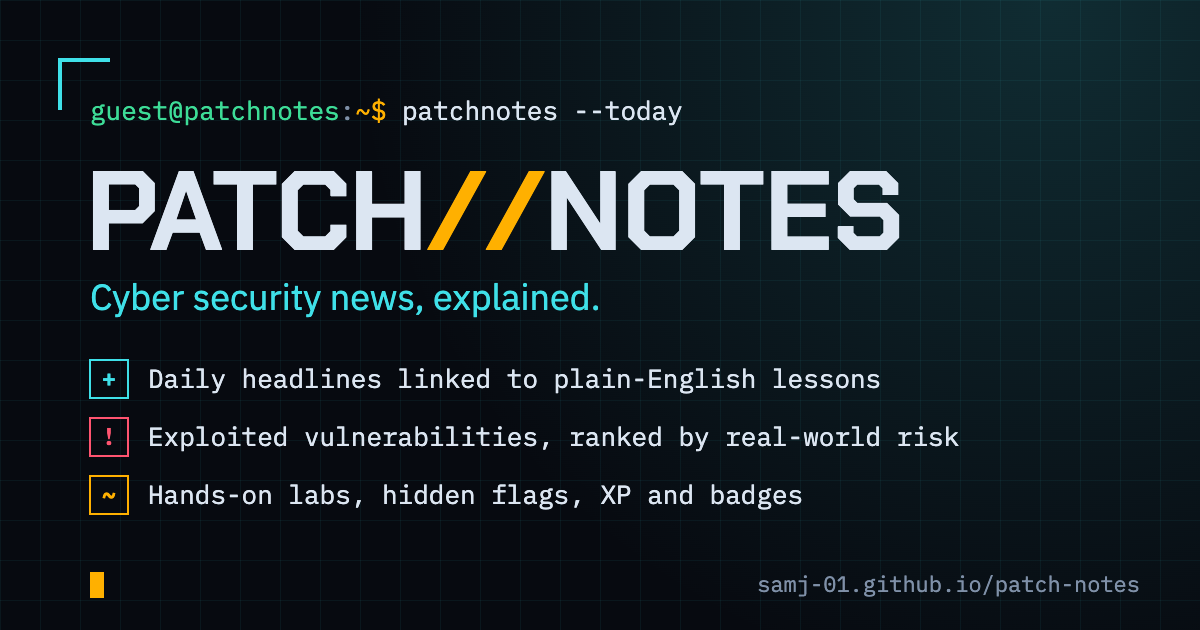
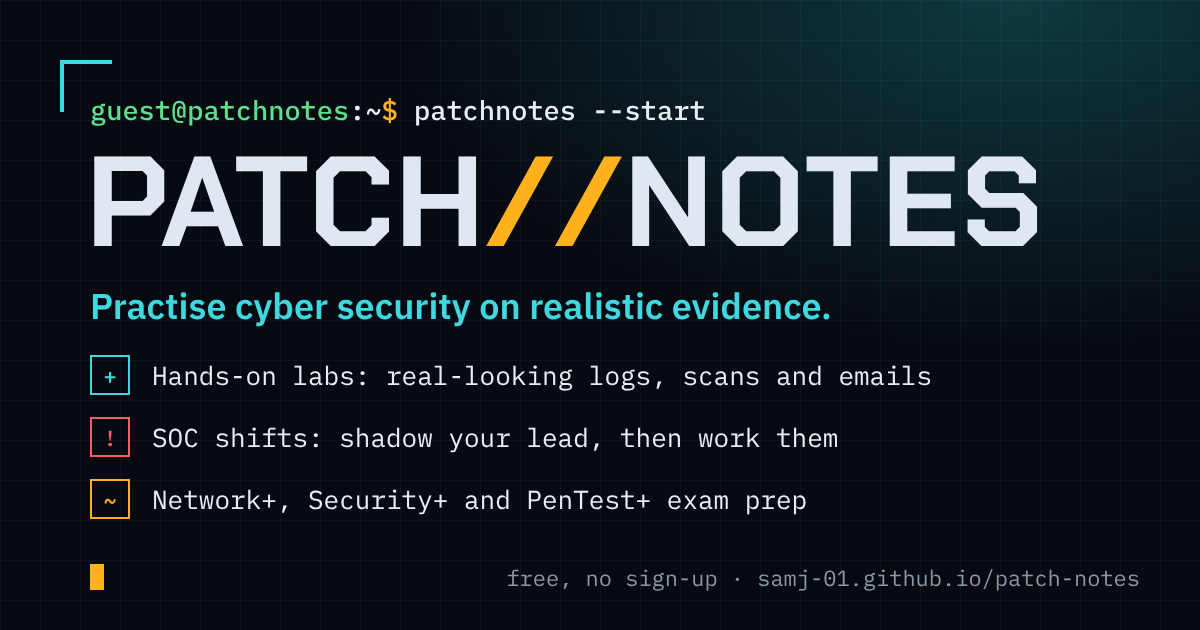
V1 polish: share preview, exam start card, README and feedback links
Getting ready to share the site with the owner's iMeta class, who are
studying Network+, Security+ and PenTest+.
- Link preview: a new og.png and share title and description. The old
  card sold the site as a news feed; it now says what it's for
  (practise on realistic evidence: labs, SOC shifts you can shadow,
  exam prep), and says it's free with no sign-up. The card's source
  is kept in docs/og.html.
- Home: a fourth way in for newcomers, "Studying for an exam" (four
  across on wide screens, two on tablets, one on phones), and the
  Agency card now says you can watch your shift lead first.
- Command palette: the Agency is a section, and exam prep names all
  three certs.
- Feedback links: only a GitHub issue form gets a title appended, and
  only it says it needs an account, so a Google or Microsoft Forms
  link can replace it in content/site.json alone (tested).
- README: what's on the site now (26 labs, 4 missions, the Agency, 3
  tools, 29 lessons, three exam maps with 148 questions) and the
  current site sections; the Node test command uses the glob.

Verified: Python OK, Node 217/217 (new feedback-link test). browser_
check with axe on all 80 routes at desktop and phone in dark and
light: 320 of 320 clean. Home, Agency and a lab rechecked after the
last changes, and the guided shift replay (including Watch from the
report) passes.

Claude-Session: https://claude.ai/code/session_01SEoh2DnpqGooNxPu4SiA34

diff --git a/docs/og.html b/docs/og.html
@@ -1,0 +1,25 @@
+<!-- Source of static/og.png (the link-preview card). Render at 1200 x 630 in Chromium and save as PNG. -->
+<!doctype html><html><head><meta charset="utf-8">
+<link rel="stylesheet" href="https://fonts.googleapis.com/css2?family=Chakra+Petch:wght@600;700&family=IBM+Plex+Mono:wght@400;500&family=IBM+Plex+Sans:wght@400;600&display=block">
+<style>
+html,body{margin:0;width:1200px;height:630px;overflow:hidden}
+body{background:radial-gradient(900px 500px at 85% 0%,#0f3a40 0%,rgba(15,58,64,0) 70%),#070a10;color:#e6edf5;font-family:"IBM Plex Sans",sans-serif;position:relative}
+body:before{content:"";position:absolute;inset:0;background-image:linear-gradient(rgba(64,224,232,.05) 1px,transparent 1px),linear-gradient(90deg,rgba(64,224,232,.05) 1px,transparent 1px);background-size:40px 40px}
+.c{position:absolute;left:60px;top:60px;width:48px;height:48px;border-left:4px solid #40d8e0;border-top:4px solid #40d8e0}
+.p{position:absolute;left:90px;top:92px;font:500 27px "IBM Plex Mono",monospace;color:#e6edf5}.p b{color:#5ee08a;font-weight:500}.p i{color:#ffb21e;font-style:normal}
+h1{position:absolute;left:86px;top:138px;margin:0;font:700 128px/1 "Chakra Petch",sans-serif;letter-spacing:2px;color:#dfe7f2}h1 span{color:#ffb21e}
+.s{position:absolute;left:90px;top:282px;font:600 36px "IBM Plex Sans",sans-serif;color:#40d8e0}
+ul{position:absolute;left:90px;top:355px;margin:0;padding:0;list-style:none}
+li{display:flex;align-items:center;gap:22px;margin-bottom:22px;font:400 26px "IBM Plex Mono",monospace;color:#e6edf5}
+li em{display:inline-grid;place-items:center;width:36px;height:36px;border:2px solid;font:500 22px "IBM Plex Mono",monospace;font-style:normal}
+.a{color:#40d8e0}.b{color:#ff5a6a}.d{color:#ffb21e}
+.k{position:absolute;left:90px;bottom:40px;width:14px;height:26px;background:#ffb21e}
+.u{position:absolute;right:60px;bottom:38px;font:400 22px "IBM Plex Mono",monospace;color:#8b97a8}
+</style></head><body><div class="c"></div>
+<div class="p"><b>guest@patchnotes</b>:~<i>$</i> patchnotes --start</div>
+<h1>PATCH<span>//</span>NOTES</h1>
+<div class="s">Practise cyber security on realistic evidence.</div>
+<ul><li><em class="a">+</em>Hands-on labs: real-looking logs, scans and emails</li>
+<li><em class="b">!</em>SOC shifts: shadow your lead, then work them</li>
+<li><em class="d">~</em>Network+, Security+ and PenTest+ exam prep</li></ul>
+<div class="k"></div><div class="u">free, no sign-up · samj-01.github.io/patch-notes</div></body></html>

diff --git a/src/app/04-home.js b/src/app/04-home.js
@@ -87,7 +87,7 @@ let routeWidth = 0, routeTimer = null;
 addEventListener("resize", () => { clearTimeout(routeTimer); routeTimer = setTimeout(() => { const b = $("route"); if (b && Math.abs(b.clientWidth - routeWidth) > 8) drawRoute(); }, 120); });
 
 /* TODAY */
-// Someone who hasn't done anything yet gets a calmer home page: three ways in, their route, a beginner question,
+// Someone who hasn't done anything yet gets a calmer home page: four ways in, their route, a beginner question,
 // and the news as one line. Once they've earned any XP or finished anything, the full page returns.
 const isNewcomer = () => !P.xp && !count(P.done) && !count(P.labs) && !count(P.missions) && !count(P.agency);
 function startCards(news, kev) {
@@ -97,7 +97,8 @@ function startCards(news, kev) {
     <span class="eyebrow">${eyebrow}</span><h3>${title}</h3><p>${text}</p><span class="start-cta">${cta} →</span></a>`;
   return `<section class="start" aria-labelledby="start-h"><h2 id="start-h">Where do you want to start?</h2><div class="start-grid">
     ${card(esc(basics?.href || "#learn"), cardArt("cia-triad"), "New to security", "Learn the basics", "Short lessons with pictures, then a game. No experience needed.", "Start the basics")}
-    ${shift?.clientImage ? card("#agency", cardPhoto(shift.clientImage.small || shift.clientImage.src, 800, Math.round(800 * shift.clientImage.height / shift.clientImage.width)), "PATCH//AGENCY", "Work a SOC shift", "Clock in at a security operations centre. Guided, with hints from your shift lead.", "Clock in") : ""}
+    ${card("#exams", cardPhoto("img/heads/exams.webp", 494, 247), "Studying for an exam", "Network+, Security+ or PenTest+", "See what to practise for each objective, then take a mock exam.", "Open exam prep")}
+    ${shift?.clientImage ? card("#agency", cardPhoto(shift.clientImage.small || shift.clientImage.src, 800, Math.round(800 * shift.clientImage.height / shift.clientImage.width)), "PATCH//AGENCY", "Work a SOC shift", "Clock in at a security operations centre. Watch your shift lead work it first, then take the desk.", "Clock in") : ""}
     ${card("#news", cardArt("nation-state"), "Just the news", "This week, explained", `${news.length} stories in plain English, and ${kev.length} ${kev.length === 1 ? "bug" : "bugs"} being exploited right now.`, "Read the news")}
   </div></section>`;
 }

diff --git a/static/js/agency/ui.js b/static/js/agency/ui.js
@@ -373,7 +373,7 @@ export function mount(root, shift, { done = false, onComplete = () => {}, onAgai
       <h3 class="eyebrow">Handover notes</h3>
       <div class="ag-notes"><div><b>Yours</b><p>${rep.note ? esc(rep.note) : '<span class="muted">(none)</span>'}</p></div><div><b>A model handover</b><p>${esc(rep.modelNote)}</p></div></div>
       <div class="row"><button class="btn brand" type="button" id="ag-again">Work the shift again</button><button class="btn ghost" type="button" id="ag-watch">Watch ${esc(leadName)} work it</button>${shift.next ? `<a class="btn ghost" href="${esc(shift.next.href)}">${esc(shift.next.label)}</a>` : ""}</div>
-      ${feedback ? `<p class="muted">This is a pilot. <a href="${esc(feedback)}" target="_blank" rel="noopener">Tell us how the shift went ↗</a> (a public GitHub form; needs a free account).</p>` : ""}`;
+      ${feedback ? `<p class="muted">This is a pilot. <a href="${esc(feedback)}" target="_blank" rel="noopener">Tell us how the shift went ↗</a>${/^https:\/\/github\.com\//.test(feedback) ? " (a public GitHub form; needs a free account)" : ""}.</p>` : ""}`;
     $("ag-again").addEventListener("click", () => (onAgain ? onAgain() : mount(root, shift, { done: true, onComplete })));
     $("ag-watch").addEventListener("click", () => (onAgain ? onAgain({ shadow: true }) : mount(root, shift, { done: true, onComplete, shadow: true })));
     $("ag-d-h").focus();

diff --git a/src/app/09-shell.js b/src/app/09-shell.js
@@ -38,7 +38,7 @@ try {
 /* ---------- command palette ---------- */
 const cmdk = $("cmdk"), cmdIn = $("cmdk-input"), cmdOut = $("cmdk-out");
 let cmdLog = [], cmdSel = 0, cmdItems = [], sudoTried = false;
-const SECTIONS = [["today", "Daily briefing"], ["news", "Security news, explained"], ["cves", "CVE Radar"], ["learn", "Lessons & paths"], ["exams", "Exam prep: Network+ and Security+"], ["glossary", "Glossary A–Z"], ["missions", "Missions & labs"], ["play", "Games & flag hunt"], ["careers", "Career paths & resources"], ["progress", "Your XP, badges & level"], ["stack", "Am I affected? (your tech)"]];
+const SECTIONS = [["today", "Daily briefing"], ["news", "Security news, explained"], ["cves", "CVE Radar"], ["learn", "Lessons & paths"], ["exams", "Exam prep: Network+, Security+ and PenTest+"], ["glossary", "Glossary A–Z"], ["missions", "Practise: missions & labs"], ["agency", "PATCH//AGENCY: SOC shifts"], ["play", "Games & flag hunt"], ["careers", "Career paths & resources"], ["progress", "Your XP, badges & level"], ["stack", "Am I affected? (your tech)"]];
 const HELP = [
   ["help", "show this list"], ["ls", "list sections"], ["cd <section>", "go to a section, e.g. cd news"],
   ["open <lesson>", "open a lesson, e.g. open ransomware"], ["define <term>", "explain a term, e.g. define rce"],

diff --git a/src/app/01-core.js b/src/app/01-core.js
@@ -23,7 +23,8 @@ function markText(text, terms) {
   return out + esc(s.slice(pos));
 }
 // A link to the public feedback form (a GitHub issue form), titled with the page it came from.
-const feedbackHref = what => (DATA.site.feedback ? `${DATA.site.feedback}&title=${encodeURIComponent("Feedback: " + what)}` : "");
+// A GitHub issue form gets a title naming what the feedback is about; any other form link (Google, Microsoft) is used as it is.
+const feedbackHref = what => { const f = DATA.site.feedback || ""; return /^https:\/\/github\.com\//.test(f) ? `${f}&title=${encodeURIComponent("Feedback: " + what)}` : f; };
 const $ = id => document.getElementById(id);
 const esc = s => String(s ?? "").replace(/[&<>"']/g, ch => ({ "&": "&amp;", "<": "&lt;", ">": "&gt;", '"': "&quot;", "'": "&#39;" }[ch]));
 const pct = x => x == null ? "—" : (x * 100 < 1 ? (x * 100).toFixed(2) : (x * 100).toFixed(1)) + "%";

diff --git a/site_template.html b/site_template.html
@@ -1,6 +1,6 @@
 <title>Patch Notes</title>
 <meta name="viewport" content="width=device-width, initial-scale=1, viewport-fit=cover">
-<meta name="description" content="Hands-on cyber security and IT for beginners: learn how attacks work and how to defend against them, with labs, missions, games and the daily security news explained.">
+<meta name="description" content="Free hands-on cyber security and IT practice for beginners: labs on realistic logs, scans and emails, SOC shifts you can shadow then work, Network+, Security+ and PenTest+ exam prep, and the day's security news explained.">
 <link rel="alternate" type="application/rss+xml" title="Patch Notes" href="feed.xml">
 <!--__META__-->
 <link rel="preconnect" href="https://fonts.googleapis.com">

diff --git a/src/site.css b/src/site.css
@@ -1863,7 +1863,8 @@ button.try-row { font: inherit; text-align: left; cursor: pointer; width: 100%; 
 /* First visit: three ways in, with pictures */
 .start { display: grid; gap: 14px; }
 .start h2 { margin: 0; }
-.start-grid { display: grid; grid-template-columns: repeat(3, minmax(0, 1fr)); gap: 16px; }
+.start-grid { display: grid; grid-template-columns: repeat(4, minmax(0, 1fr)); gap: 16px; }
+@media (max-width: 1100px) { .start-grid { grid-template-columns: repeat(2, minmax(0, 1fr)); } }
 .start-card h3 { font-size: 1.15rem; }
 .start-cta { margin-top: auto; font: 700 0.85rem var(--font-mono); color: var(--brand); letter-spacing: 0.04em; }
 .news-line { display: grid; gap: 8px; align-content: start; }

diff --git a/build.py b/build.py
@@ -177,7 +177,7 @@ def social_meta(site, title, description, path=""):
         f'<meta property="og:image" content="{e(base)}og.png">',
         '<meta property="og:image:width" content="1200">',
         '<meta property="og:image:height" content="630">',
-        '<meta property="og:image:alt" content="Patch Notes: cyber security news, explained">',
+        '<meta property="og:image:alt" content="Patch Notes: practise cyber security on realistic evidence">',
         '<meta name="twitter:card" content="summary_large_image">',
         '<meta name="theme-color" content="#070A10">',
     ])
@@ -388,7 +388,7 @@ def main():
     (SITE_DIR / "lessons").mkdir(exist_ok=True)
     (SITE_DIR / "data" / "cves.json").write_text(json.dumps(rows, ensure_ascii=False))
     out = SITE_DIR / "index.html"
-    meta = social_meta(site, "Patch Notes: cyber security news, explained", site.get("description", ""))
+    meta = social_meta(site, "Patch Notes: practise cyber security on realistic evidence", site.get("description", ""))
     # The device drawings live in one module (static/js/hw.js) shared by the labs; the page gets the same code inline.
     hw_js = re.sub(r"^export ", "", (STATIC / "js" / "hw.js").read_text(), flags=re.M)
     # The shared email component (static/js/mail.js) is inlined the same way.

diff --git a/README.md b/README.md
@@ -8,21 +8,16 @@
 
 Most security news is written for people already in the industry, and most courses aren't connected to what's happening this week. Patch Notes joins the two, and teaches by letting you poke at things: break a network cable and see who loses connection, drag a subnet mask and watch the bits move, run real Linux commands against a log file.
 
-## Missions and labs
+## What's on it
 
-Everything runs in the browser. Nothing is installed and no real network traffic is sent.
+Everything runs in the browser. Nothing is installed and no real network traffic is sent. Tool output matches the real tool or OS it imitates (each lab says which), and anything simplified says so.
 
-| | What you do | Topic |
-|---|---|---|
-| **DHCP mission** | Watch a PC get its IP address packet by packet (Discover, Offer, Request, Acknowledge), inspect every message, then fix a broken network. Guided, Practice and Challenge modes | IP addressing, DHCP |
-| **The 3am logins** (mission) | Overnight SSH alerts on a Linux server: search `auth.log` like grep, find the one login that worked, contain the attacker (end the session, lock the account, switch to key-only SSH) and prove how they got in | Security operations, log analysis |
-| **The OSI model, layer by layer** | Follow one web request down all 7 layers and back up as headers are added and removed, then sort real things into the right layer | OSI model |
-| **Network topologies: break them** | Eight topologies (star, bus, ring, mesh, spine-and-leaf…). Click a cable or device to break it and see who's cut off; reveal the single points of failure | Topologies |
-| **Ports and protocols** | 24 flip cards for the exam port list, insecure-to-secure swaps, then a quick-fire drill | Ports and protocols |
-| **Subnetting trainer** | A live binary view of the network/host split, the block-size shortcut, and typed practice questions with worked answers | Subnetting |
-| **Subnet calculator** (tool) | Type an address, drag the prefix, enter a mask or a host count: a live network diagram grows and shrinks, with class, address type (private, APIPA, loopback…), CIDR, mask, wildcard, ranges, a map of where the subnet sits, the binary AND, and a splitter for dividing a network. Shareable links, and `subnet 10.0.0.0/22` in the command palette | Subnetting, IPv4 addressing |
-| **Linux terminal** | A simulated shell: navigate, read logs, `grep` with pipes (`\| wc -l`, `\| sort \| uniq -c`), fix a script's permissions | Linux CLI |
-| **Log detective, Header inspector, CVSS builder** | Investigate an SSH brute force, read a spoofed email's headers, score a vulnerability with CVSS 3.1 | Security operations |
+| | What you do |
+|---|---|
+| **26 labs** | Networking: the OSI model, topologies, ports, subnetting, cabling, Wi-Fi surveys, VLANs and inter-VLAN routing on a simulated Cisco CLI, a network builder, a slow network (ping, tracert, `show interfaces`) and reading IPv6. Security: Linux terminal and permissions, hashing, log and email-header investigations, CVSS scoring. Penetration testing: rules of engagement, reading nmap, validating scanner findings. Evidence labs have "Show me where" to point at the line that answers each question |
+| **4 missions** | DHCP and DNS faults to diagnose and fix, an overnight SSH brute force to investigate in `auth.log`, and a phishing triage across raw email headers. Guided, Practice and Challenge modes |
+| **PATCH//AGENCY** | Simulated SOC shifts for two fictional clients: work an alert queue, search the logs and mailboxes behind each alert, ask other teams to act, close with evidence and write the handover. Shadow your shift lead first, then work it Guided (hints, suggested searches) or on your own |
+| **3 tools** | Bring your own evidence: an email header checker, a log search for `auth.log` and web server logs, and a CVSS vector decoder. All run in the browser only |
 
 <table>
 <tr>
@@ -41,19 +36,18 @@ Everything runs in the browser. Nothing is installed and no real network traffic
 
 Wrong answers never end a lab: every quiz offers a retry of the questions you missed, and every lab has a reset button.
 
-## The rest of the site
+## Site sections
 
 | Section | What it does |
 |---|---|
-| **Home** | Your next learning step, a daily challenge, this week in security and the vulnerabilities to patch first |
+| **Home** | Four ways in (the basics, exam prep, a SOC shift, the news), your route, a daily challenge and the vulnerabilities to patch first |
+| **Learn** | 29 short lessons, each opening with three key ideas and a picture, a sourced real-world case and three checks; 4 learning paths and a glossary of 330+ terms |
+| **Practise** | The labs, missions and tools above, grouped by track |
+| **Agency** | The SOC shifts: a staff badge, the rota and your best reports |
+| **Exams** | CompTIA Network+ (N10-009, all 25 objectives), Security+ (SY0-701) and PenTest+ (PT0-003) mapped to what practises them, with honest coverage notes, 148 practice questions, timed mock exams and an "Am I ready?" check. Preparation, not a guarantee; no real exam questions |
 | **News** | Headlines from 12 outlets, auto-tagged by topic, linked to lessons and CVEs, with "What this means" explanations (AI-written, fact-checked against each article and official records) |
-| **CVE Radar** | Every new CVE, enriched with CISA KEV and FIRST EPSS, prioritised by real-world risk, with trend charts |
-| **Am I affected?** | Pick the tech you use (phone, browser, router, work apps) for personal alerts |
-| **Exam prep** | CompTIA Network+ (N10-009): all 25 objectives mapped to the lessons, labs and missions that practise them, with honest coverage (4 hands-on, 13 partial, 8 not yet), per-objective progress, and an **"Am I ready?"** check: readiness per domain from your practice and question results, a study plan of what to do next, and your latest mock score. Preparation, not a guarantee; no real exam questions |
-| **Learn** | 22 lessons with sourced real-world cases, 4 learning paths (e.g. Path to SOC Analyst) and a glossary of 250+ terms, including the common CWE bug types |
-| **Play** | "Phish or Legit?", a quick-fire quiz and a 3-flag CTF hunt hidden in the site itself |
-| **Careers** | Five entry paths with skills, certs and first job titles, plus a directory of free resources |
-| **Progress** | XP, access levels (guest → root), 17 badges and an XP history |
+| **CVE Radar** | Every new CVE, enriched with CISA KEV and FIRST EPSS, prioritised by real-world risk, with trend charts; "Am I affected?" for the tech you use |
+| **You** | XP, access levels (guest to root), 17 badges, games ("Phish or Legit?", a quiz, a 3-flag CTF hidden in the site) and career paths |
 
 Everywhere: jargon has a dotted underline (hover or tap for an explanation), a command palette (`/` or `Ctrl+K`) lets you navigate like a terminal, and there's a light and a dark theme.
 
@@ -94,7 +88,7 @@ python3 build.py                        # full refresh (a few minutes: NVD rate 
 python3 build.py --reuse-cves --serve   # refresh news only, then preview at http://localhost:8000
 python3 build.py --offline --serve      # rebuild from saved data (for editing content/design)
 python3 -m unittest discover -s tests   # Python tests
-node --test tests/page.test.mjs tests/missions.test.mjs tests/layout.test.mjs tests/labs.test.mjs tests/flow.test.mjs tests/exam.test.mjs   # page logic + Mission Engine tests
+node --test tests/*.test.mjs             # page logic, Mission Engine, labs, Agency and tools
 ```
 
 A free [NVD API key](https://nvd.nist.gov/developers/request-an-api-key) makes CVE fetching about 10× faster: `export NVD_API_KEY=...`
@@ -141,6 +135,7 @@ If the Mac is off, step 1 still runs: news and CVEs stay current, only new expla
 - Security awareness content design: phishing simulation, plain-language explanations
 - Networking: DHCP, the OSI model, topologies and failure analysis, ports and protocols, IPv4 subnetting maths
 - Linux: a simulated shell with pipes, permissions and log analysis
+- Simulation design: a SOC shift engine (pure rules, tested so every shift can be finished from its own content, with a shadow mode generated from those rules) and a simulated Cisco IOS command line with VLANs, trunks, router-on-a-stick and extended ACLs
 - Hands-on training design: log analysis, email header forensics, CVSS 3.1 scoring (implemented from the FIRST spec and tested)
 - Automated testing in CI: a failing test blocks the deploy
 - Accessibility: keyboard support, screen-reader labels, reduced motion, contrast-checked light and dark themes (no axe-core violations across every view, in both themes)
